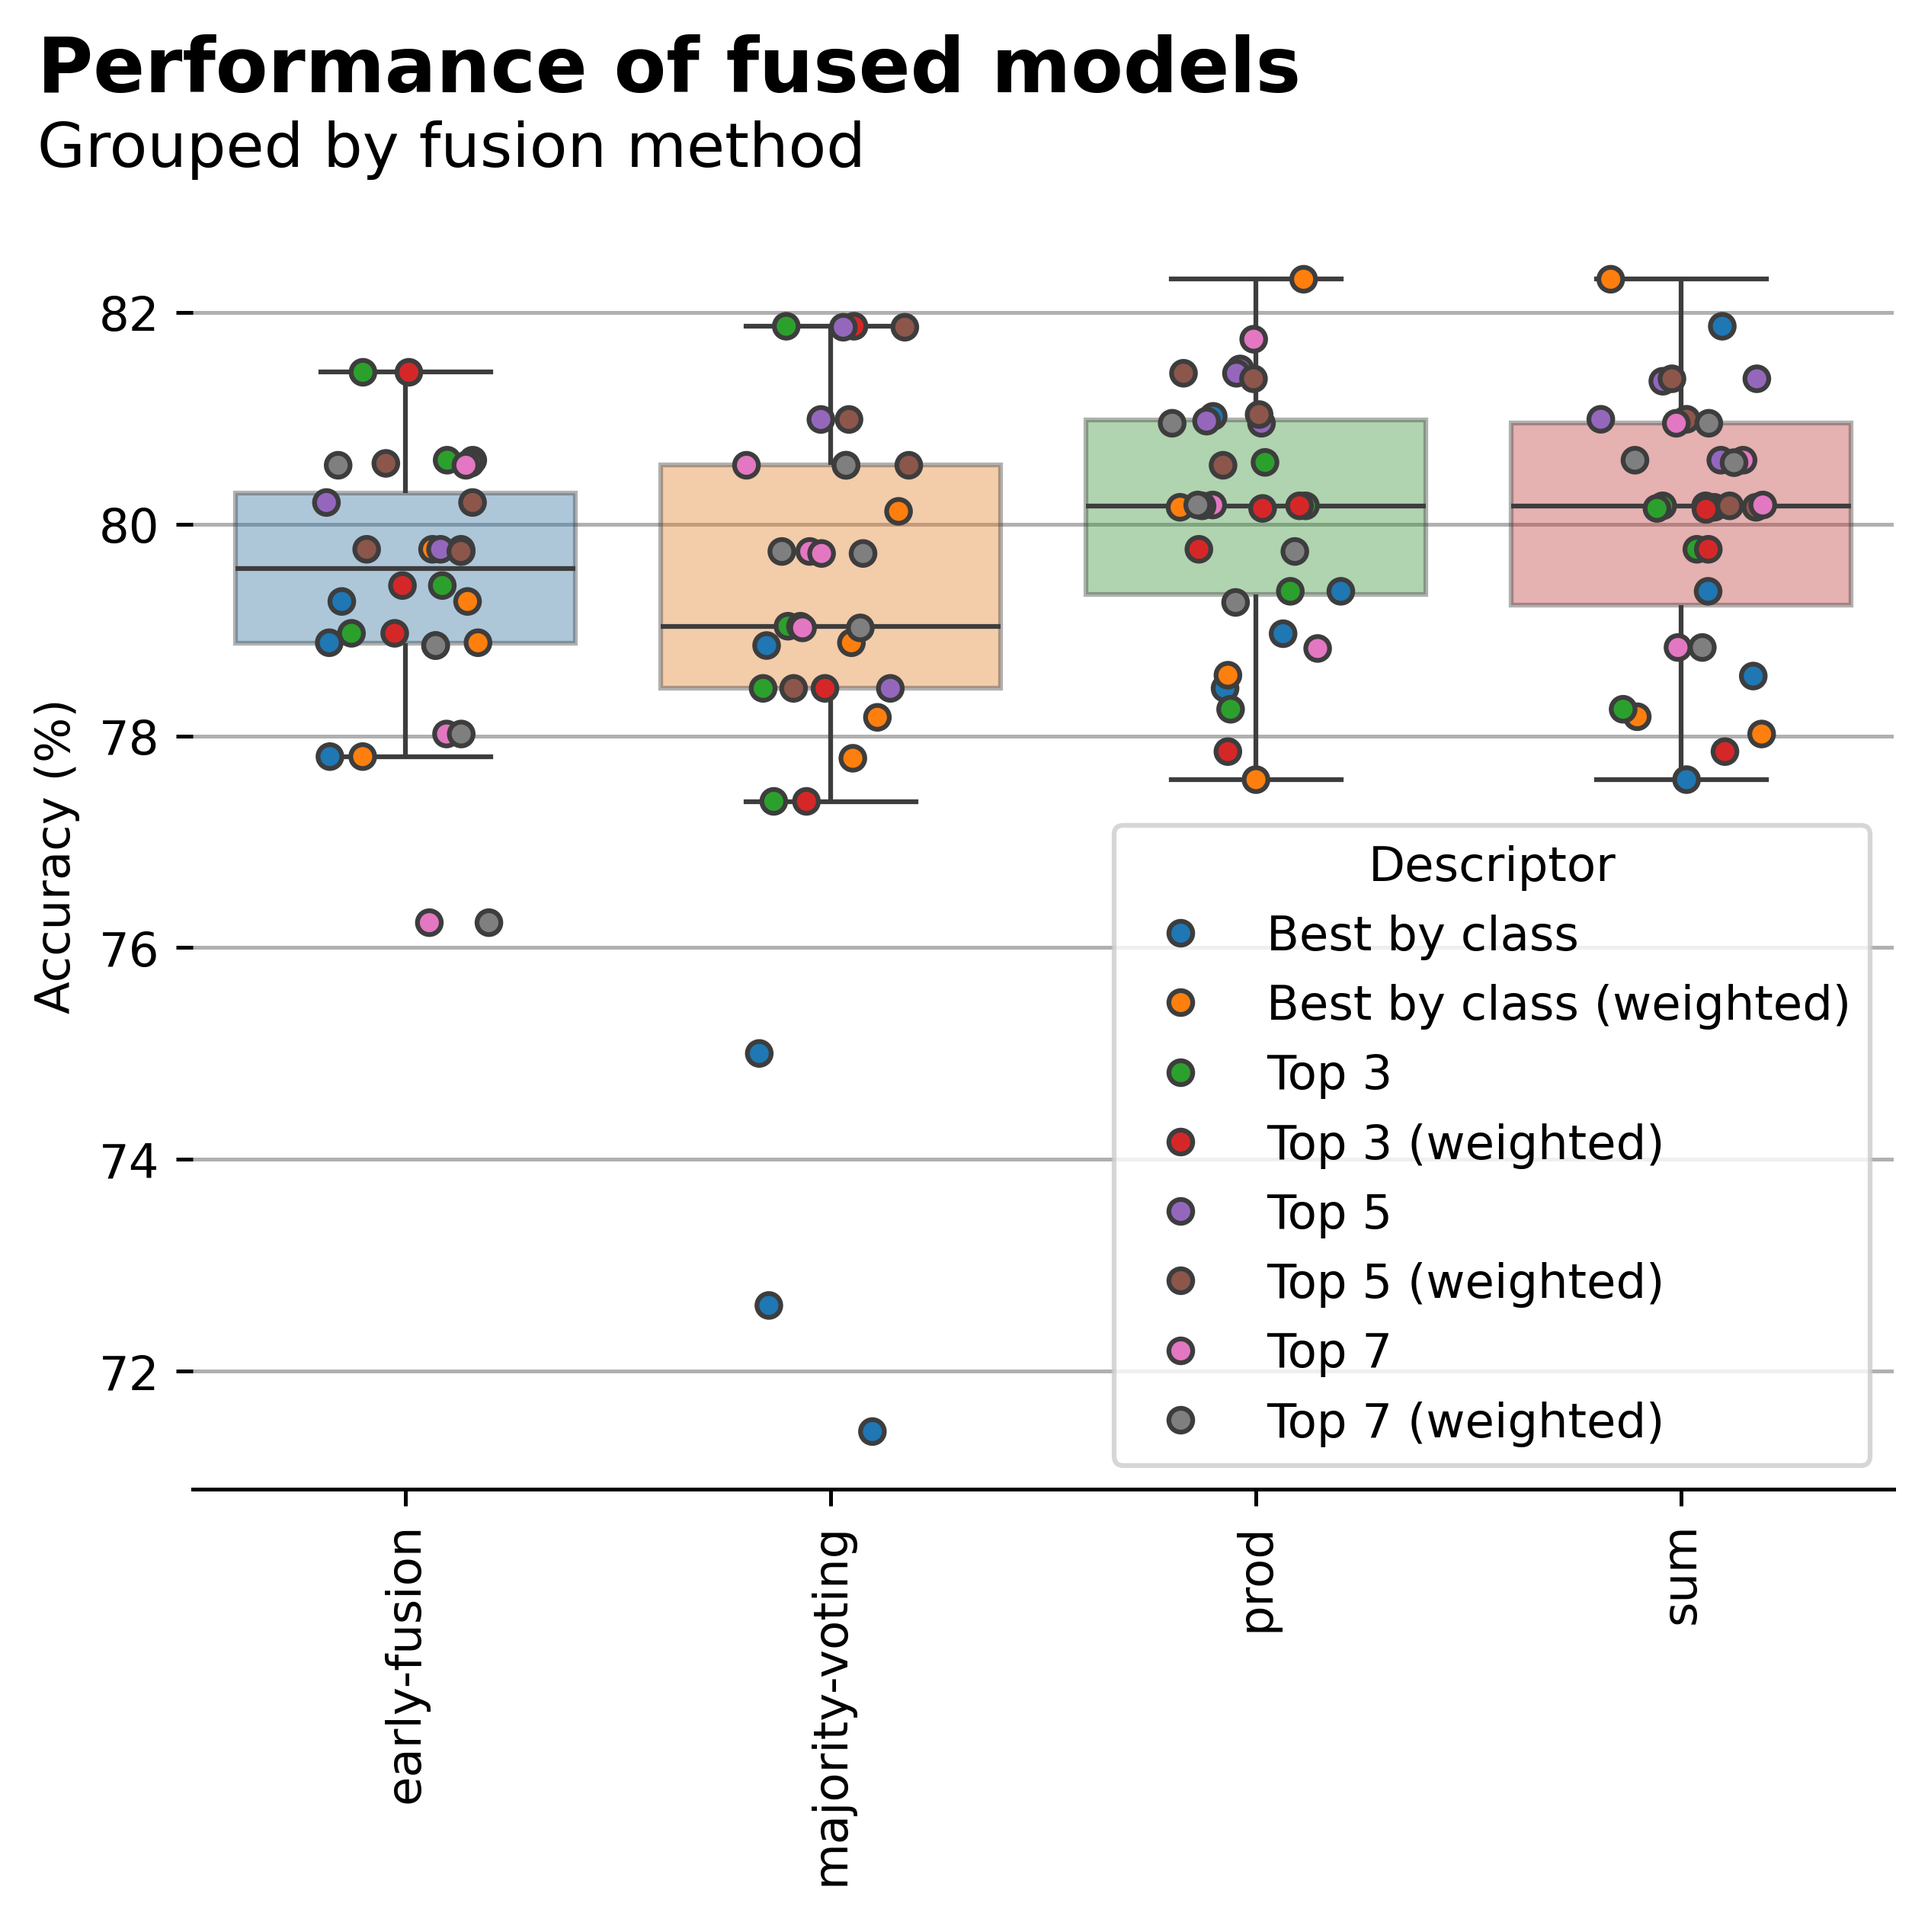
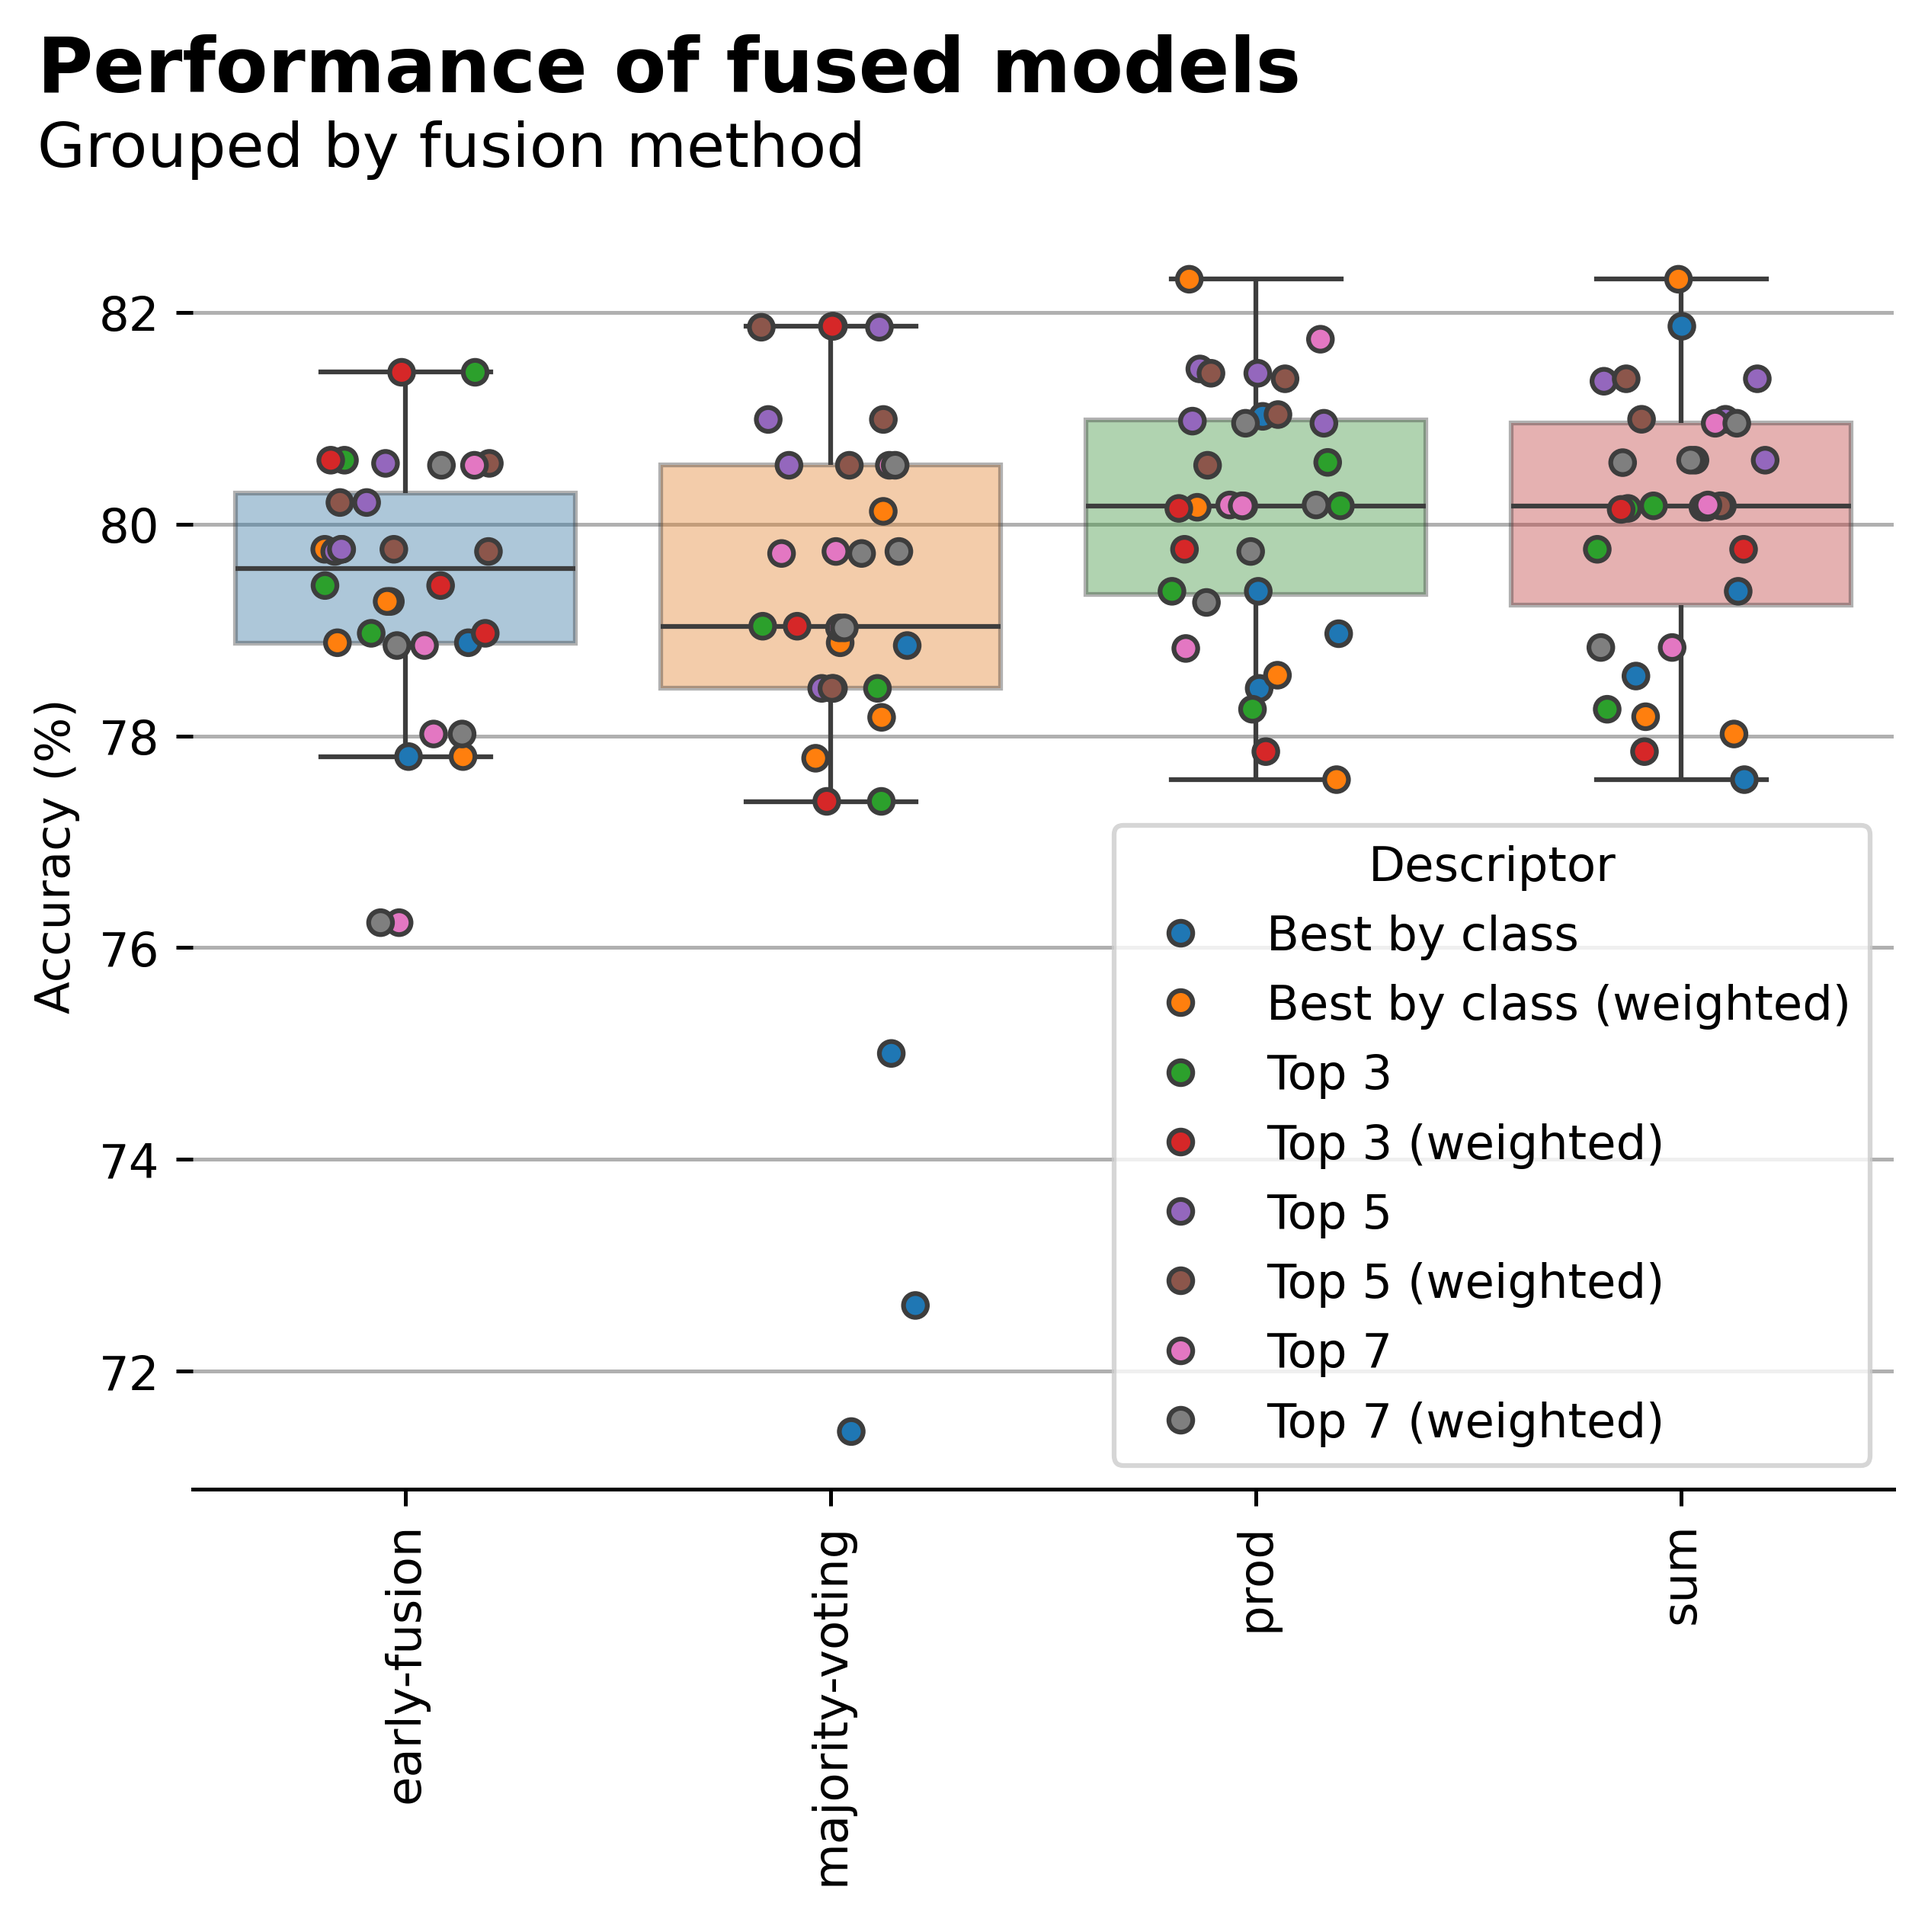
Changed charts title

diff --git a/src/utilities/generate_charts.py b/src/utilities/generate_charts.py
@@ -25,7 +25,7 @@ sns.stripplot(data=df_combined, y='Acc.', x='Descriptor',
               linewidth=1, ax=ax)
 
 title = 'Performance of fused models'
-subtitle = 'Grouped by combination of descriptors' 
+subtitle = 'Grouped by aggregation of feature sets' 
 set_title_and_subtitle(fig=fig, title=title, subtitle=subtitle,
                        alignment='left', h_offset=25)
 
@@ -34,7 +34,7 @@ ax.tick_params(axis='x', labelrotation=90)
 ax.grid(visible=True, axis='y')
 ax.spines[['top', 'right', 'left']].set_visible(False)
 
-fig.savefig(f'{charts_folder}/by-combined-descriptor.png', 
+fig.savefig(f'{charts_folder}/by-aggregation-of-feature-sets.png', 
             dpi=450, bbox_inches='tight')
 #===================================================================
 #===================================================================
